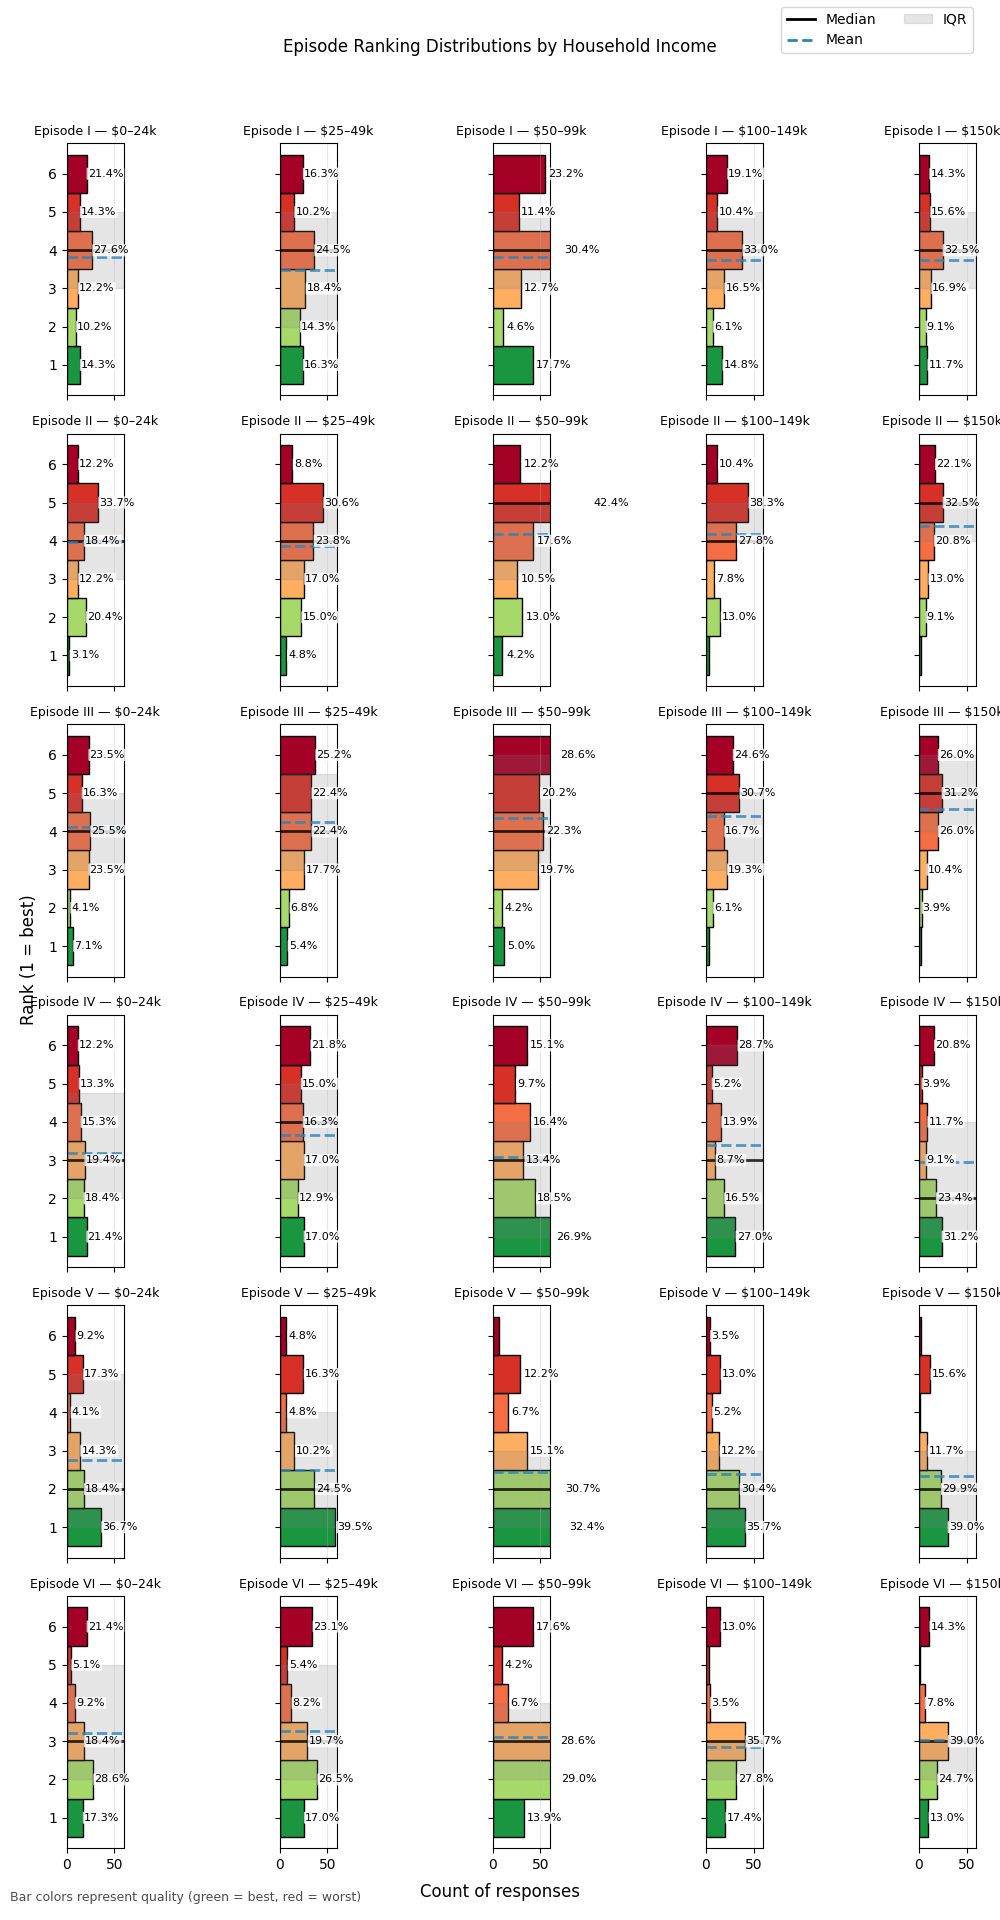
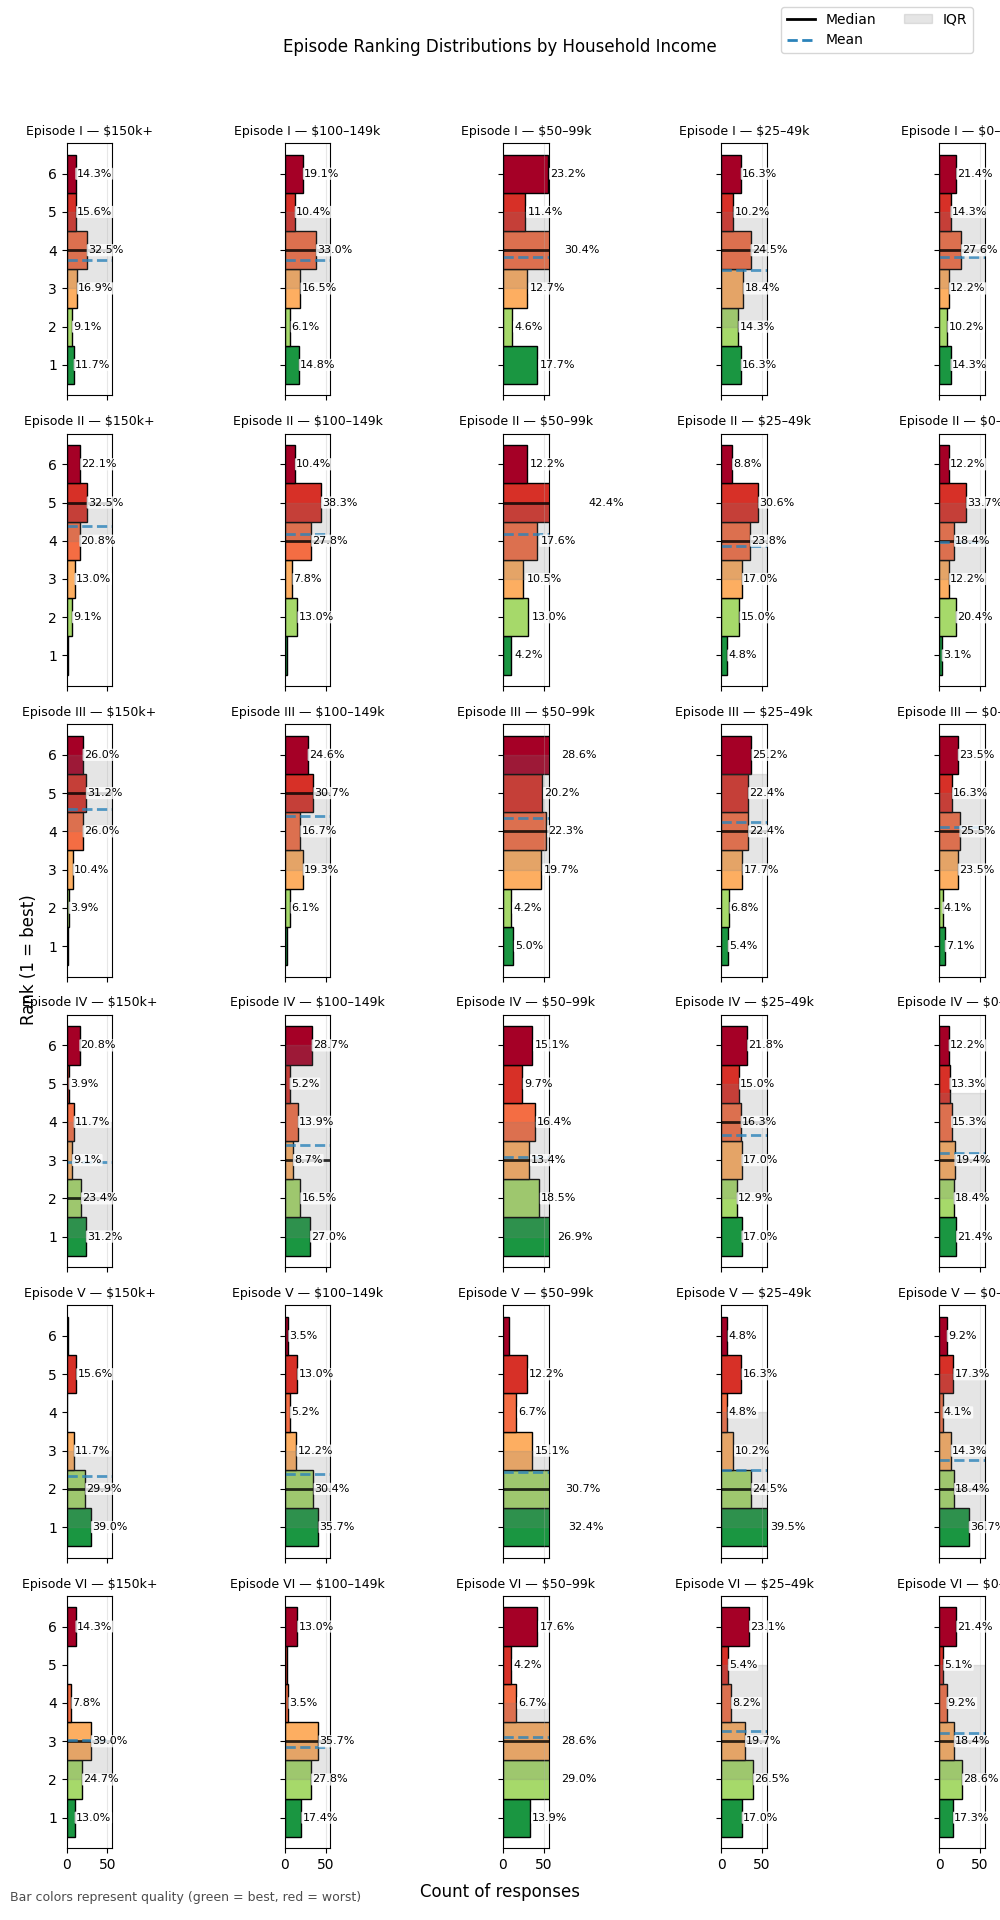
Phase 2.3.4, episode_ranking vs education_level, finished eda episode_ranking vs househhold_income

diff --git a/analysis/eda_demographic_slices.py b/analysis/eda_demographic_slices.py
@@ -5,6 +5,7 @@ import matplotlib.pyplot as plt
 import pandas as pd
 from src.paths import FIGURES_DIR
 from src.io_utils import load_clean_star_wars
+from typing import Literal
 
 
 # =========================
@@ -67,8 +68,14 @@ DEMOGRAPHICS_COLUMNS: dict[str, dict[str, str]] = {
         "$50–99k": "$50–99k",
         "$100–149k": "$100–149k",
         "$150k+": "$150k+",
-    }
-    # "education": {"High school": "High school", "Bachelor": "Bachelor", ...}
+    },
+    "education_level": {
+        "Less than HS": "Less than HS",
+        "High school": "High school",
+        "Some college / Associate": "Some college / Associate",
+        "Bachelor’s": "Bachelor’s",
+        "Graduate": "Graduate",
+    },
 }
 
 
@@ -117,62 +124,49 @@ def sanity_check_rank_percentages_multi(
     slice_column: str,
     slice_config: dict[str, dict[str, str]],
 ) -> pd.DataFrame:
-    """
-    Computes rank percentage tables per variable (e.g. episode, character),
-    split by ONE demographic slice dimension (e.g. gender OR education).
 
-    The output is useful for sanity-checking histogram percentages.
-    """
-
-    # Ensure the requested slice column exists in the configuration dictionary
     if slice_column not in slice_config:
         raise ValueError(
             f"Unknown slice column '{slice_column}'. "
             f"Available options: {list(slice_config.keys())}"
         )
 
-    # Retrieve the mapping of raw demographic values to display labels
-    # Example: {"Male": "Male", "Female": "Female"}
-    slice_map = slice_config[slice_column]
-
-    # Extract slice values in the desired logical display order
-    # Example: ["Male", "Female"]
-    slices = list(slice_map.keys())
-
-    # Create an empty dictionary to store frequency tables per slice
-    tables: dict[str, pd.DataFrame] = {}
-
-    # Loop over each slice value (e.g. Male, Female)
-    for raw_value in slices:
-
-        # Filter the dataframe to only rows belonging to the current slice
-        slice_df = long_df.loc[long_df[slice_column] == raw_value]
-
-        # Create a normalized crosstab:
-        #   - rows    → main variable (e.g. Episode I, Episode II)
-        #   - columns → rank values (1–6)
-        #   - normalize="index" ensures each row sums to 1
-        freq = (
-            pd.crosstab(
-                slice_df[variable_name],   # rows: variable values
-                slice_df[value_name],      # columns: ranking values
-                normalize="index",         # normalize within each variable
-            )
-            * 100                          # convert proportions to percentages
+    if slice_column not in long_df.columns:
+        raise ValueError(
+            f"Column '{slice_column}' not found in dataframe."
         )
 
-        # Round percentages to one decimal place for readability
-        freq = freq.round(1)
+    slice_map = slice_config[slice_column]
+    slices = list(slice_map.keys())
 
-        # Store the table using the display label as the dictionary key
+    tables: dict[str, pd.DataFrame] = {}
+
+    for raw_value in slices:
+
+        slice_df = long_df.loc[long_df[slice_column] == raw_value]
+
+        if slice_df.empty:
+            continue
+
+        # N per variable
+        n_counts = slice_df.groupby(variable_name)[value_name].count()
+
+        freq = (
+            pd.crosstab(
+                slice_df[variable_name],
+                slice_df[value_name],
+                normalize="index",
+            )
+            * 100
+        ).round(1)
+
+        # Add N column
+        freq["n"] = n_counts
+
         tables[slice_map[raw_value]] = freq
 
-    # Combine all slice tables into a single multi-indexed dataframe
-    # Outer index → slice label (e.g. Male, Female)
-    # Inner index → variable value (e.g. Episode I, Episode II, ...)
     combined = pd.concat(tables, names=[slice_column, variable_name])
 
-    # Return the combined sanity-check table
     return combined
 
 
@@ -332,13 +326,6 @@ def plot_rank_histograms_single_slice(
     # Show figure
     plt.show()
 
-from typing import Literal
-import numpy as np
-import matplotlib.pyplot as plt
-import pandas as pd
-from pathlib import Path
-
-
 def plot_rank_histograms_single_slice_horizontal_grid(
     long_df: pd.DataFrame,
     *,
@@ -347,28 +334,18 @@ def plot_rank_histograms_single_slice_horizontal_grid(
     slice_column: str,
     slice_title: str,
     slice_config: dict[str, dict[str, str]],
-    better: Literal["low", "high"],   # "low" = smaller is better (ranks), "high" = larger is better (ratings)
-    ncols: int | None = None,         # number of histograms per row (default = number of slice values)
+    better: Literal["low", "high"],
+    ncols: int | None = None,
     save_path: Path,
 ) -> None:
     """
-    Plot horizontal histograms in a flat grid for one slice dimension.
-
-    Each subplot shows the distribution of `value_name` for one `variable_name`
-    within one category of `slice_column`.
-
-    The `better` parameter controls:
-    - Axis direction (best value appears at the top)
-    - Color semantics (green = best, red = worst)
-
-    The `ncols` parameter controls how many histograms appear in each row.
-    If None, defaults to the number of slice categories.
+    Plot horizontal histograms (percentage-normalized) in a flat grid
+    for one slice dimension.
     """
 
     # -------------------------
     # 1. Validate slice column
     # -------------------------
-
     if slice_column not in slice_config:
         raise ValueError(
             f"Unknown slice column '{slice_column}'. "
@@ -378,20 +355,17 @@ def plot_rank_histograms_single_slice_horizontal_grid(
     # -----------------------------------------
     # 2. Resolve slice ordering & display names
     # -----------------------------------------
-
     slice_map = slice_config[slice_column]
     slices = list(slice_map.keys())
 
     # -----------------------------------------
     # 3. Determine which variables to plot
     # -----------------------------------------
-
     variables = long_df[variable_name].dropna().unique().tolist()
 
     # -----------------------------------------
     # 4. Build plotting grid layout
     # -----------------------------------------
-
     cells: list[tuple[str, str]] = [
         (variable, raw_value)
         for variable in variables
@@ -408,7 +382,7 @@ def plot_rank_histograms_single_slice_horizontal_grid(
     fig, axes = plt.subplots(
         nrows=nrows,
         ncols=ncols,
-        figsize=(2.0 * ncols, 3.2 * nrows),
+        figsize=(2.2 * ncols, 3.2 * nrows),
         sharex=True,
         sharey=True,
     )
@@ -423,17 +397,15 @@ def plot_rank_histograms_single_slice_horizontal_grid(
     )
 
     # -----------------------------------------
-    # 5. Define histogram bins (1–6 ranking)
+    # 5. Histogram bins (auto-detect ranks)
     # -----------------------------------------
-
-    bins = np.arange(0.5, 7.5, 1)
-    min_val = int(bins[0] + 0.5)
-    max_val = int(bins[-1] - 0.5)
+    min_val = int(long_df[value_name].min())
+    max_val = int(long_df[value_name].max())
+    bins = np.arange(min_val - 0.5, max_val + 1.5, 1)
 
     # -----------------------------------------
     # 6. Plot each histogram cell
     # -----------------------------------------
-
     for ax, (variable, raw_value) in zip(axes.flat, cells):
 
         slice_df = long_df.loc[long_df[slice_column] == raw_value]
@@ -453,17 +425,24 @@ def plot_rank_histograms_single_slice_horizontal_grid(
             ax.grid(axis="x", alpha=0.3)
             continue
 
+        # ✅ NORMALIZE TO PERCENTAGES
+        weights = np.ones_like(data) / total * 100
+
         counts, _, bars = ax.hist(
             data,
             bins=bins,
+            weights=weights,
             edgecolor="black",
             orientation="horizontal",
         )
 
-        xmax = counts.max()
-        ax.set_xlim(0, xmax * 2.0)
-        offset = ax.get_xlim()[1] * 0.02
+        # ✅ FIXED SCALE FOR ALL SUBPLOTS
+        ax.set_xlim(0, 100)
+        offset = 2
 
+        # ---------------------------------
+        # Color + Percentage Labels
+        # ---------------------------------
         for bar, value in zip(bars, range(min_val, max_val + 1)):
 
             if better == "low":
@@ -475,7 +454,7 @@ def plot_rank_histograms_single_slice_horizontal_grid(
 
             bar.set_facecolor(RANK_COLORS[color_key])
 
-            pct = counts[value - min_val] / total * 100
+            pct = counts[value - min_val]
 
             if pct >= 3:
                 ax.text(
@@ -493,6 +472,9 @@ def plot_rank_histograms_single_slice_horizontal_grid(
                     ),
                 )
 
+        # ---------------------------------
+        # Distribution statistics
+        # ---------------------------------
         mean = data.mean()
         median = data.median()
         q1, q3 = data.quantile([0.25, 0.75])
@@ -504,21 +486,23 @@ def plot_rank_histograms_single_slice_horizontal_grid(
         if better == "low":
             ax.invert_yaxis()
 
-        ax.set_title(f"{variable} — {slice_map[raw_value]}", fontsize=9)
+        n = len(data)
+        ax.set_title(
+            f"{variable} — \n{slice_map[raw_value]} \n(n={n})",
+            fontsize=9,
+        )
         ax.grid(axis="x", alpha=0.3)
 
     # -----------------------------------------
     # 7. Turn off unused axes
     # -----------------------------------------
-
     for ax in axes.flat[len(cells):]:
         ax.axis("off")
 
     # -----------------------------------------
     # 8. Global labels & legend
     # -----------------------------------------
-
-    fig.supxlabel("Count of responses")
+    fig.supxlabel("Percentage of responses (0–100%)")
 
     if better == "low":
         fig.supylabel(f"{value_name.title()} (1 = best)")
@@ -656,6 +640,35 @@ def episode_ranking_household_income(df: pd.DataFrame) -> None:
         )
     )
 
+def episode_ranking_education_level(df: pd.DataFrame) -> None:
+    long_df = melt_variable(
+        df,
+        variable_columns=EPISODE_RANK_COLUMNS,
+        variable_name="episode ranking",
+        value_name="rank",
+    )
+
+    plot_rank_histograms_single_slice_horizontal_grid(
+        long_df,
+        variable_name="episode ranking",
+        value_name="rank",
+        better="low",
+        slice_column="education_level",
+        slice_title="Education Level",
+        slice_config=DEMOGRAPHICS_COLUMNS,
+        save_path=FIGURES_DIR / "episode_ranking_education_level.png",
+    )
+
+    print(
+        sanity_check_rank_percentages_multi(
+            long_df,
+            variable_name="episode ranking",
+            value_name="rank",
+            slice_column="education_level",
+            slice_config=DEMOGRAPHICS_COLUMNS,
+        ).to_string()
+    )
+
 # =========================
 # MAIN
 # =========================
@@ -663,7 +676,7 @@ def episode_ranking_household_income(df: pd.DataFrame) -> None:
 def main() -> None:
     df = load_clean_star_wars()
 
-    episode_ranking_household_income(df)
+    episode_ranking_education_level(df)
 
 
 if __name__ == "__main__":
